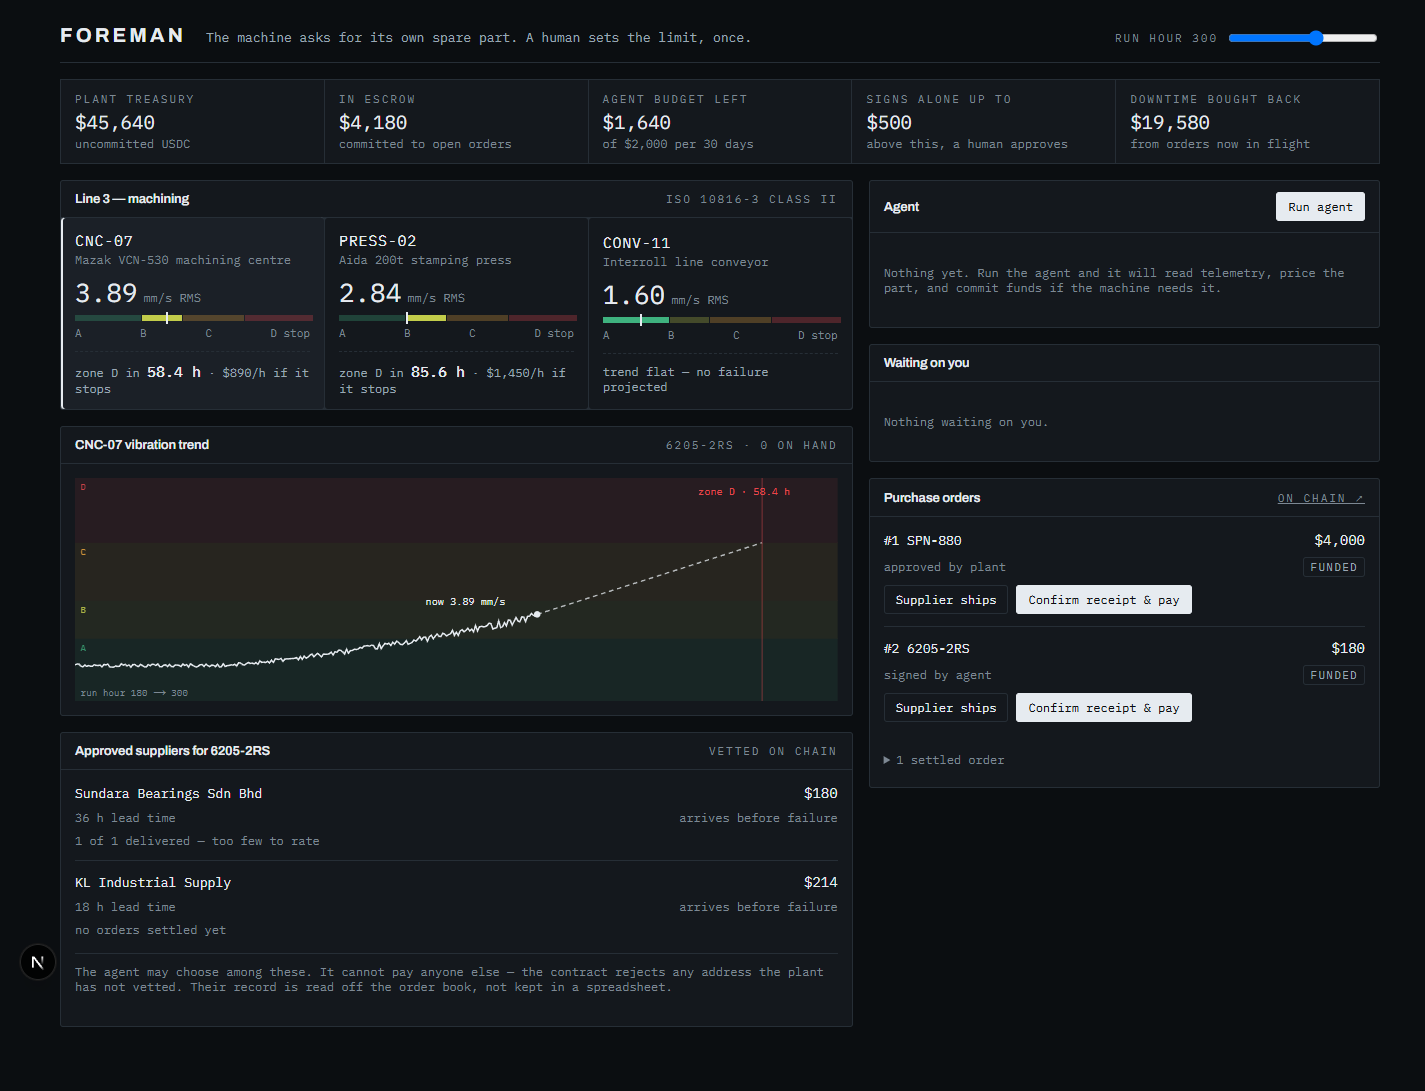
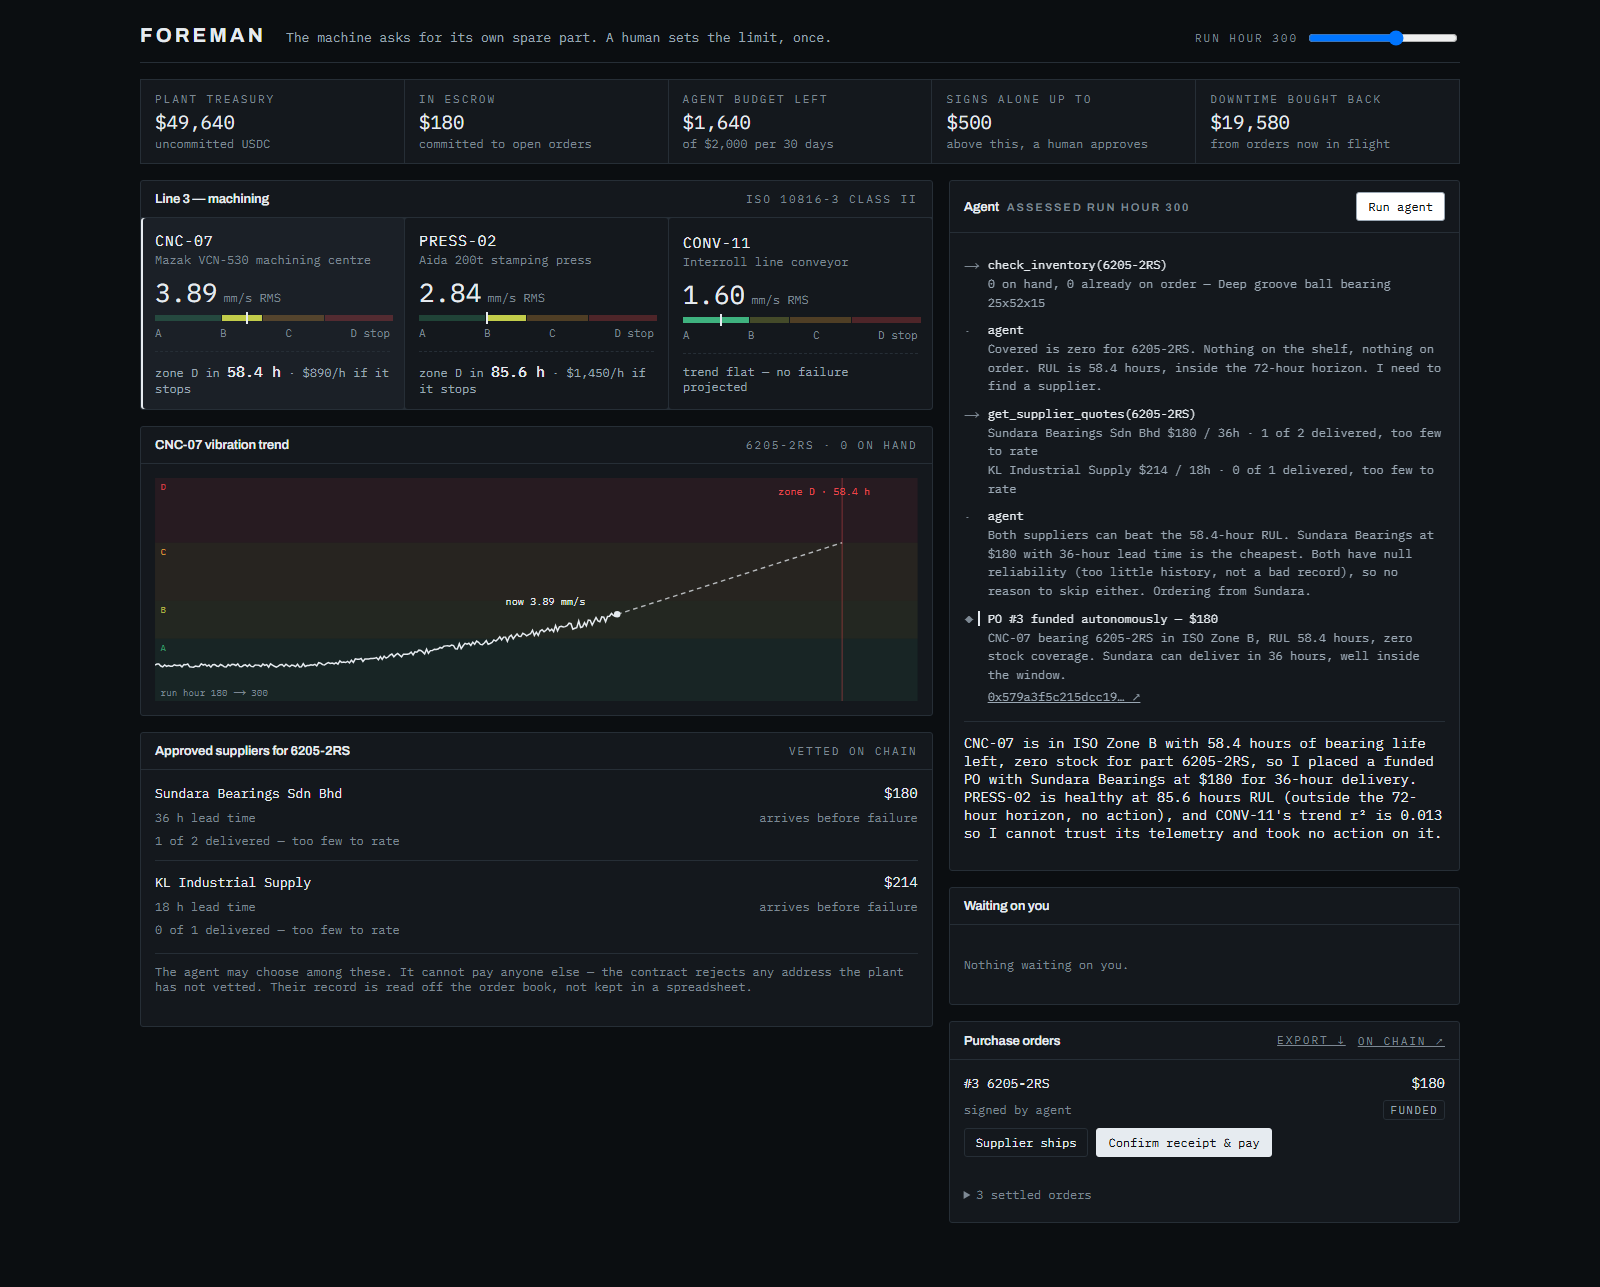
@ Shoot the README still from the same run that proves it
The hero image was captured on a fresh load, so the agent panel in it was
empty — a control room arguing the opposite of the caption underneath. Take
it after the agent has funded the PO instead, and hide Next dev badge, which
is the dev server talking, not the plant.

STILL_ONLY=1 stops after the routine lane so refreshing a stale image costs
neither four minutes of testnet run nor another video in git history.

@

diff --git a/README.md b/README.md
@@ -180,7 +180,10 @@ goes from 0 to 180.
 
 To record that run rather than perform it: `node scripts/record-demo.mjs`
 drives the whole sequence against a running dev server and writes
-`docs/demo.webm`.
+`docs/demo.webm`, plus the still at the top of this file. `STILL_ONLY=1` stops
+after the routine lane and refreshes only the still — a UI change dates the
+image while the recording is still accurate, and that should not cost another
+video in git history.
 
 ### Settling in real USDC
 
